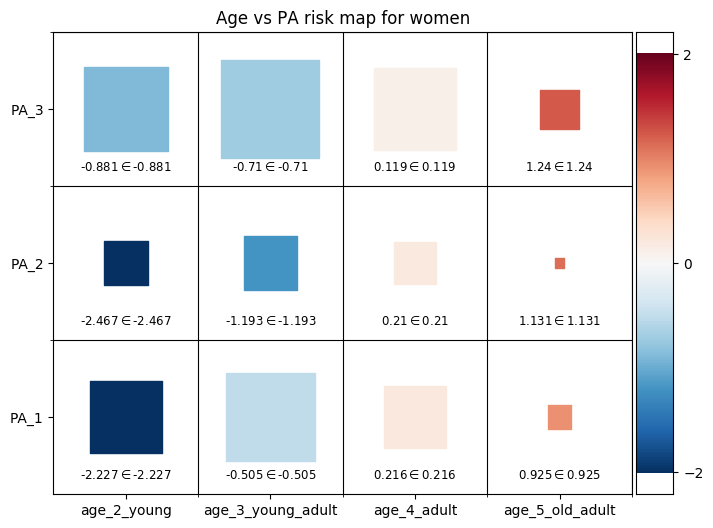
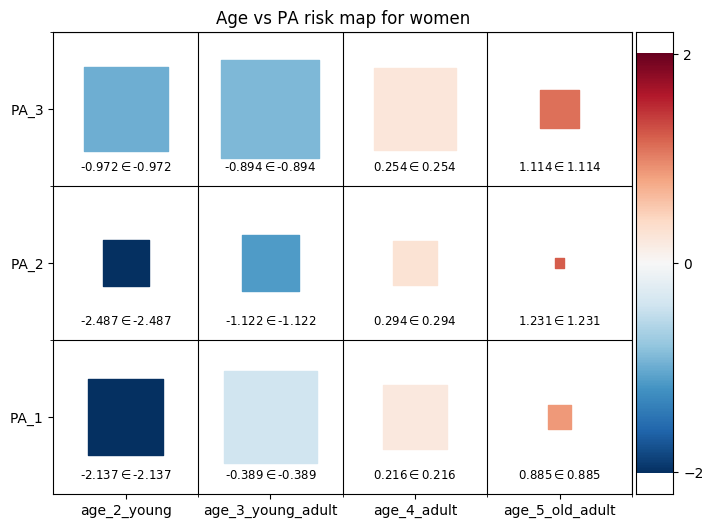
update

diff --git a/model_discrete/predictive_interval.py b/model_discrete/predictive_interval.py
@@ -14,12 +14,8 @@ import gc
 
 from query2df import query2df
 
-dir = os.getcwd()
-with open(f'{dir}\configs\config_CRC.yaml', 'r') as file:
-    cfg = yaml.safe_load(file)
 
-
-def predictive_interval(model_bn, col_var, row_var, n_samples = 30000 , q_length = 100, target_variable = "CRC", path_to_data = "interval_df", logger = None):
+def predictive_interval(model_bn, col_var, row_var, n_samples = 30000 , q_length = 100, target_variable = "CRC", path_to_data = "interval_df", cfg = None, logger = None):
     if not os.path.exists(path_to_data):
         os.mkdir(path_to_data)
     
@@ -68,28 +64,30 @@ def predictive_interval(model_bn, col_var, row_var, n_samples = 30000 , q_length
 
                 import time
 
+                q = None
+                chunk_size = 10
+                n_chunks = int(q_length / chunk_size)
                 
-
-                q = np.array([])
-                n_chunks = 10
                 
-                with ProcessPoolExecutor(max_workers=cfg["inputs"]['max_workers']) as executor:
-                    futures = [executor.submit(run_iteration, i, ) for i in range(q_length / n_chunks)]
+                with ProcessPoolExecutor(max_workers=10) as executor:
+                    futures = [executor.submit(run_iteration, i, chunk_size, model_approx_infer, target_variable, Sex, col_var, column, row_var, row, n_samples ) for i in range(int(n_chunks))]
                     all_results = []
-                    for future in tqdm(as_completed(futures), total=(q_length/n_chunks), desc="Processing iterations predictive interval"):
+                    for future in tqdm(as_completed(futures), total=n_chunks, desc="Processing iterations predictive interval"):
                         # all_results.append(future.result())
                         result = future.result()
                         
-                        q.append(result)
+                        all_results.append(result)
 
                         del result
                         gc.collect()
+                    
+                    q = np.concatenate(all_results)
 
                 a = np.sort(q)
 
                 if Sex == "M":
-                    df_hom_inf.loc[row,column] = round( a[round(q_length*4 / 100)] - np.log( 1 - query2df(A_hom, verbose = 0)["p"][0]) , 3 )
-                    df_hom_sup.loc[row,column] = round( a[round(q_length*94.9 / 100)] - np.log( 1 - query2df(A_hom, verbose = 0)["p"][0]) , 3 )
+                    df_hom_inf.loc[row,column] = round( a[round(q_length*5 / 100)] - np.log( 1 - query2df(A_hom, verbose = 0)["p"][0]) , 3 )
+                    df_hom_sup.loc[row,column] = round( a[round(q_length*95 / 100)] - np.log( 1 - query2df(A_hom, verbose = 0)["p"][0]) , 3 )
 
                     df_hom_str.loc[row,column] = f"[ {df_hom_inf.loc[row,column]}, {df_hom_sup.loc[row,column]}]"
 
@@ -97,11 +95,14 @@ def predictive_interval(model_bn, col_var, row_var, n_samples = 30000 , q_length
 
                     df_hom.loc[row,column] = round( q_point - np.log( 1 - query2df(A_hom, verbose = 0)["p"][0]) , 3 )
 
-                    logger.info(f'Pointwise estimation of the risk:', df_hom.loc[row,column])
+                    logger.info(f'Pointwise estimation of the risk: {df_hom.loc[row,column]}')
+
+                    df_hom.to_csv(f"{path_to_data}/df_hom_{col_var}_{row_var}_{q_length}_{n_samples}.csv")
+                    df_muj.to_csv(f"{path_to_data}/df_muj_{col_var}_{row_var}_{q_length}_{n_samples}.csv")
                     
                 else:
-                    df_muj_inf.loc[row,column] = round( a[round(q_length*4 / 100)] - np.log( 1 - query2df(A_muj, verbose = 0)["p"][0]) , 3 )
-                    df_muj_sup.loc[row,column] = round( a[round(q_length*94.9 / 100)] - np.log( 1 - query2df(A_muj, verbose = 0)["p"][0]) , 3 )
+                    df_muj_inf.loc[row,column] = round( a[round(q_length*5/ 100)] - np.log( 1 - query2df(A_muj, verbose = 0)["p"][0]) , 3 )
+                    df_muj_sup.loc[row,column] = round( a[round(q_length*95 / 100)] - np.log( 1 - query2df(A_muj, verbose = 0)["p"][0]) , 3 )
 
                     df_muj_str.loc[row,column] = f"[ {df_muj_inf.loc[row,column]}, {df_muj_sup.loc[row,column]}]"
 
@@ -109,7 +110,10 @@ def predictive_interval(model_bn, col_var, row_var, n_samples = 30000 , q_length
 
                     df_muj.loc[row,column] = round( q_point - np.log( 1 - query2df(A_muj, verbose = 0)["p"][0]) , 3 )
 
-                    logger.info(f'Pointwise estimation of the risk:', df_muj.loc[row,column])
+                    logger.info(f'Pointwise estimation of the risk: {df_muj.loc[row,column]}')
+
+                    df_hom_str.to_csv(f"{path_to_data}/df_hom_{col_var}_{row_var}_{q_length}_{n_samples}_interval.csv")
+                    df_muj_str.to_csv(f"{path_to_data}/df_muj_{col_var}_{row_var}_{q_length}_{n_samples}_interval.csv")
 
                 df_hom.to_csv(f"{path_to_data}/df_hom_{col_var}_{row_var}_{q_length}_{n_samples}.csv")
                 df_muj.to_csv(f"{path_to_data}/df_muj_{col_var}_{row_var}_{q_length}_{n_samples}.csv")

diff --git a/model_discrete/main.py b/model_discrete/main.py
@@ -76,7 +76,7 @@ def main(config_file = "config_CRC.yaml",read_df = True, structure_learning = Tr
             file_path = os.path.join(dir, "data/af_clean.csv")
 
             df = pd.read_csv(file_path, index_col = None)
-            df = data_clean_discrete(df, selected_year = 2012, cancer_type = cfg["cancer_type"], cancer_renamed = cfg["cancer_renamed"], logger = logger)
+            df = data_clean_discrete(df, selected_year = 2012, cancer_type = cfg["cancer_type"], cancer_renamed = cfg["cancer_renamed"], impute_missing = cfg['inputs']['impute_missing'], logger = logger)
             df = preprocessing(df, cancer_type = cfg["cancer_renamed"])
 
             logger.info("Successful data read")
@@ -210,12 +210,12 @@ def main(config_file = "config_CRC.yaml",read_df = True, structure_learning = Tr
 
             calculate_interval = cfg["inputs"]["calculate_interval"]
             if calculate_interval:
-                predictive_interval(model_bn, col_var, target, row_var, path_to_data = "interval_df/", logger = logger)
+                predictive_interval(model_bn, col_var, row_var, target_variable=target, n_samples=cfg['interval_risk_mapping']['n_samples'], q_length=cfg['interval_risk_mapping']['q_length'], path_to_data = "interval_df/", cfg = cfg, logger = logger)
 
                 col_var = cfg["interval_risk_mapping"]["col_var"]
                 row_var = cfg["interval_risk_mapping"]["row_var"]
 
-                heatmap_plot_and_save(df, model_bn, target, col_var, row_var, interval = True)
+                heatmap_plot_and_save(df, model_bn, target, col_var, row_var, n_samples=cfg['interval_risk_mapping']['n_samples'], q_length=cfg['interval_risk_mapping']['q_length'], interval = True)
 
             logger.info("Successful risk mapping")
         # -----------------------------------------------------------------------
@@ -239,7 +239,7 @@ def main(config_file = "config_CRC.yaml",read_df = True, structure_learning = Tr
         if evaluation:
             file_path = os.path.join(dir, "data/af_clean.csv")
             df_test = pd.read_csv(file_path, index_col = None)
-            df_test = data_clean_discrete(df_test, selected_year = 2016, cancer_type = cfg["cancer_type"], cancer_renamed = cfg["cancer_renamed"], logger=logger)
+            df_test = data_clean_discrete(df_test, selected_year = 2016, cancer_type = cfg["cancer_type"], cancer_renamed = cfg["cancer_renamed"], impute_missing=cfg['inputs']['impute_missing'], logger=logger)
             df_test = preprocessing(df_test, cancer_type=cfg["cancer_renamed"])
 
             evaluation_classification(df_test, model_bn, test_var = target, logger = logger)
@@ -252,6 +252,7 @@ def main(config_file = "config_CRC.yaml",read_df = True, structure_learning = Tr
 
 
 if __name__ == "__main__":
+    starting_time = datetime.datetime.now()
     config_file_list = ["config_CRC.yaml", "config_lung_cancer.yaml", "config_prostate_cancer.yaml", "config_bladder_cancer.yaml", "config_ovarian_cancer.yaml"]
     # config_file_list = ["config_ovarian_cancer.yaml"]
     # config_file_list = ["config_CRC.yaml"]
@@ -277,3 +278,5 @@ if __name__ == "__main__":
     for config_file in config_file_list:
         main(config_file = config_file, read_df = True, structure_learning = True, save_learned_model = True, parameter_estimation = True, risk_mapping = True, influential_variable_calc = True, evaluation = True, log_dir = log_dir)
     
+    ending_time = datetime.datetime.now()
+    print(f"Total time: {ending_time - starting_time}")

diff --git a/model_discrete/data_cleaning/cleaning_disc.py b/model_discrete/data_cleaning/cleaning_disc.py
@@ -229,6 +229,15 @@ def remove_patients_other_cancers(df, cancer_type):
     df.reset_index(inplace=True, drop = True)
     return df
 
+def clean_impossible_patients(df, cancer_type):
+    if cancer_type == "cancer_prostata":
+        df.drop(df[df["sexo"] == "W" & df["cancer_prostata"] == True].index, inplace = True)
+
+    if cancer_type == "cancer_ovario":
+        df.drop(df[df["sexo"] == "M" & df["cancer_ovario"] == True].index, inplace = True)
+
+    return df
+
 def rename_vars(df,cancer_type, cancer_renamed):
 
     df.loc[df['sexo'] == 'hombre', ["sexo"]] = "M"
@@ -269,7 +278,7 @@ def rename_vars(df,cancer_type, cancer_renamed):
 
     return df
 
-def data_clean_discrete(df, cancer_type = "cancer_colorrectal", cancer_renamed = "CRC", selected_year = 2012, logger = None):
+def data_clean_discrete(df, cancer_type = "cancer_colorrectal", cancer_renamed = "CRC", selected_year = 2012, impute_missing = True,  logger = None):
 
     logger.info("Dropping duplicates")
     df = df.drop_duplicates(subset = ["fpi", "fecha_reco"], ignore_index = True).copy()
@@ -280,9 +289,17 @@ def data_clean_discrete(df, cancer_type = "cancer_colorrectal", cancer_renamed =
     logger.info(f"Selecting year: {selected_year}")
     df = df[df["año_reco"] == selected_year].reset_index(drop = True).copy()
     
-    # Impute missing values.
-    logger.info("Imputing missing values")
-    df = impute_missing_values_missForest(df)
+    
+    if impute_missing:
+        # Impute missing values.
+        logger.info("Imputing missing values")
+        df = impute_missing_values_missForest(df)
+    else: 
+        # Drop the missing values.
+        df.dropna(subset=["sexo", "af","fumador", "consumo_alcohol",
+                    "duracion_sueño", "condicion_socioeconomica_media"],
+                    inplace = True)
+        df.reset_index(inplace=True, drop = True)
 
     # Redefine variables. Discretize continuous variables.
     logger.info("Redefining variables")
@@ -290,12 +307,6 @@ def data_clean_discrete(df, cancer_type = "cancer_colorrectal", cancer_renamed =
     df = redefine_age(df)
     df = redefine_medical_cond(df)
     
-
-    # For now we will drop the missing values.
-    '''df.dropna(subset=["sexo", "af","fumador", "consumo_alcohol",
-                    "duracion_sueño", "condicion_socioeconomica_media"],
-                    inplace = True)
-    df.reset_index(inplace=True, drop = True)'''
 
     # Should we remove patients with other cancers?
     logger.info("Removing patients with other cancers")
@@ -314,6 +325,7 @@ def data_clean_discrete(df, cancer_type = "cancer_colorrectal", cancer_renamed =
     df = redefine_ses(df)
     df = redefine_alcohol(df)
     df = redefine_pa(df)
+    df = clean_impossible_patients(df, cancer_type)
     df = rename_vars(df,cancer_type, cancer_renamed)
 
     

diff --git a/model_discrete/parameter_estimation.py b/model_discrete/parameter_estimation.py
@@ -34,7 +34,7 @@ def prior_update_iteration(model_bn, card_dict, pscount_dict, size_prior_dataset
     prior_weight_list = [1, 50, 100, 500]
     for i in range(len(years)):
         df_aux = pd.read_csv("data/af_clean.csv", index_col = None)
-        df_aux = data_clean_discrete(df_aux, selected_year = years[i], cancer_type = cfg["cancer_type"], cancer_renamed = cfg["cancer_renamed"], logger=logger)
+        df_aux = data_clean_discrete(df_aux, selected_year = years[i], cancer_type = cfg["cancer_type"], cancer_renamed = cfg["cancer_renamed"], impute_missing=cfg['inputs']['impute_missing'], logger=logger)
         df_aux = preprocessing(df_aux, cancer_type = cfg["cancer_renamed"])
         
         counts_tables = model_bn.fit(df_aux, estimator=BayesianEstimator,weighted = False, prior_type = 'dirichlet', pseudo_counts = pscount_dict, n_jobs = -1)
